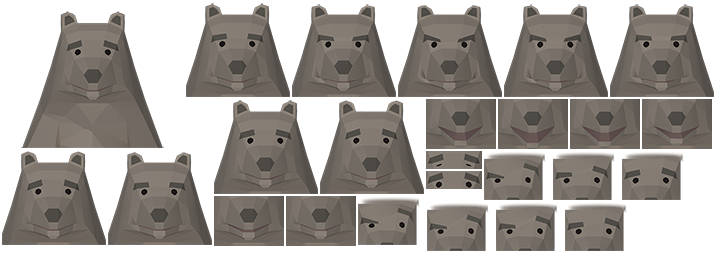
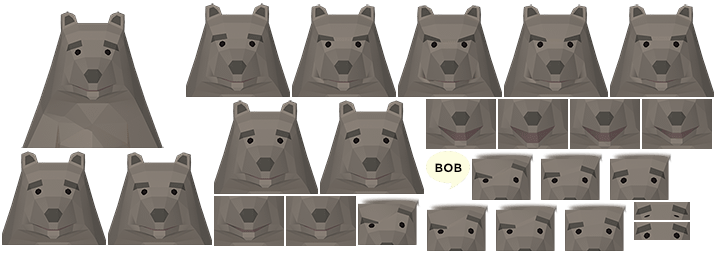
added gfx for 1/2 shield setup

Changed region(s): [[0.5838, 0.581, 0.9832, 0.9684]]

diff --git a/lib/levels/mobile/level1.js b/lib/levels/mobile/level1.js
@@ -13,7 +13,7 @@ module.exports = {
   },
 
   player: {
-    shields: 3
+    shields: 1
   },
 
   set: 'empty',

diff --git a/lib/levels/mobile/level2.js b/lib/levels/mobile/level2.js
@@ -13,7 +13,7 @@ module.exports = {
   },
 
   player: {
-    shields: 3
+    shields: 2
   },
 
   set: 'empty',
